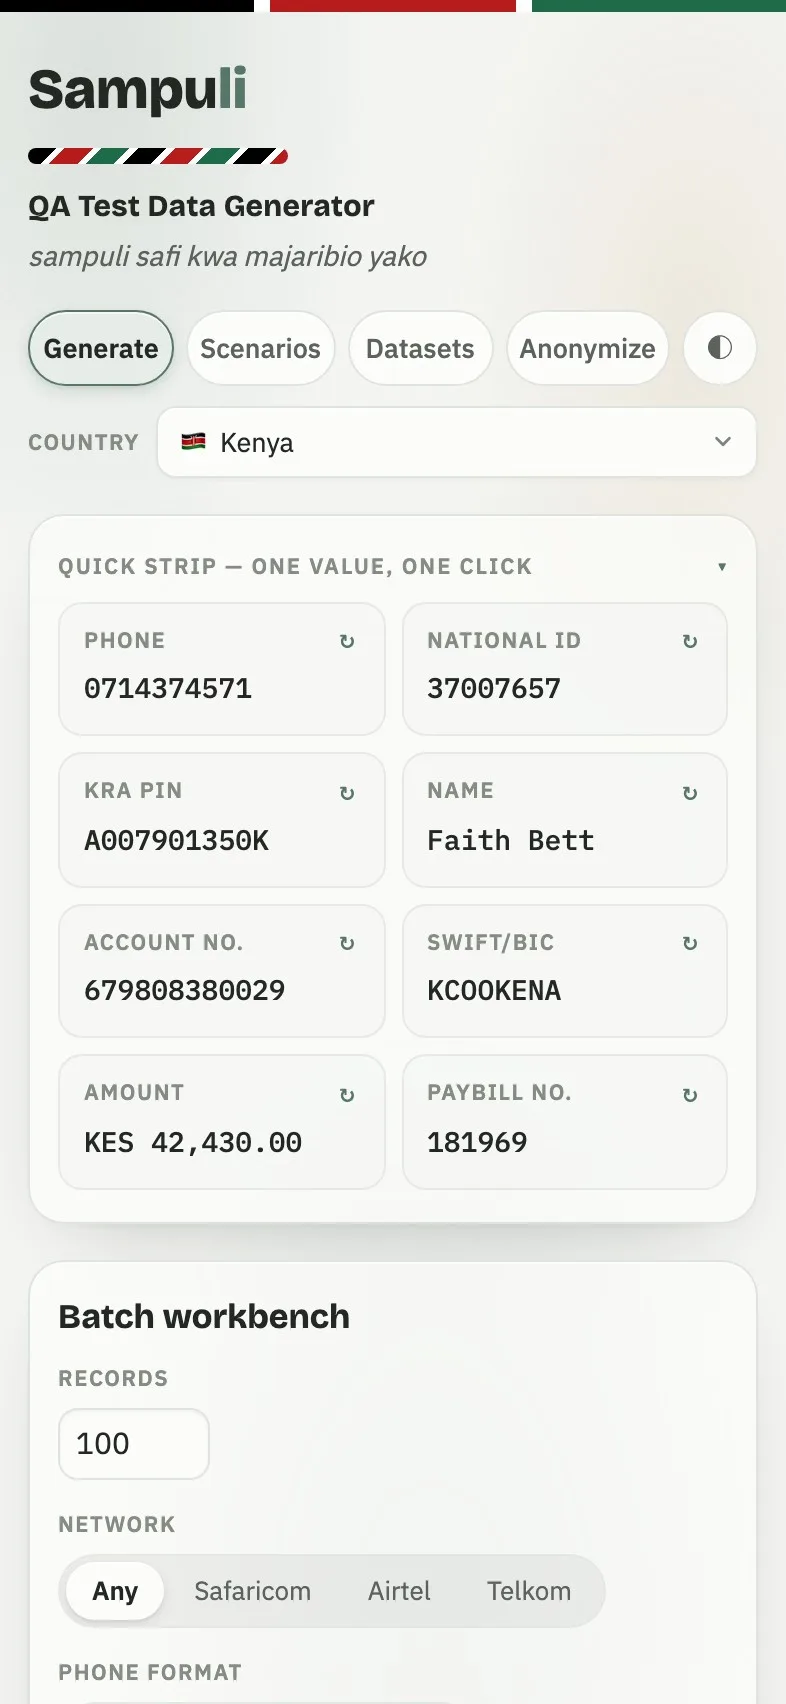
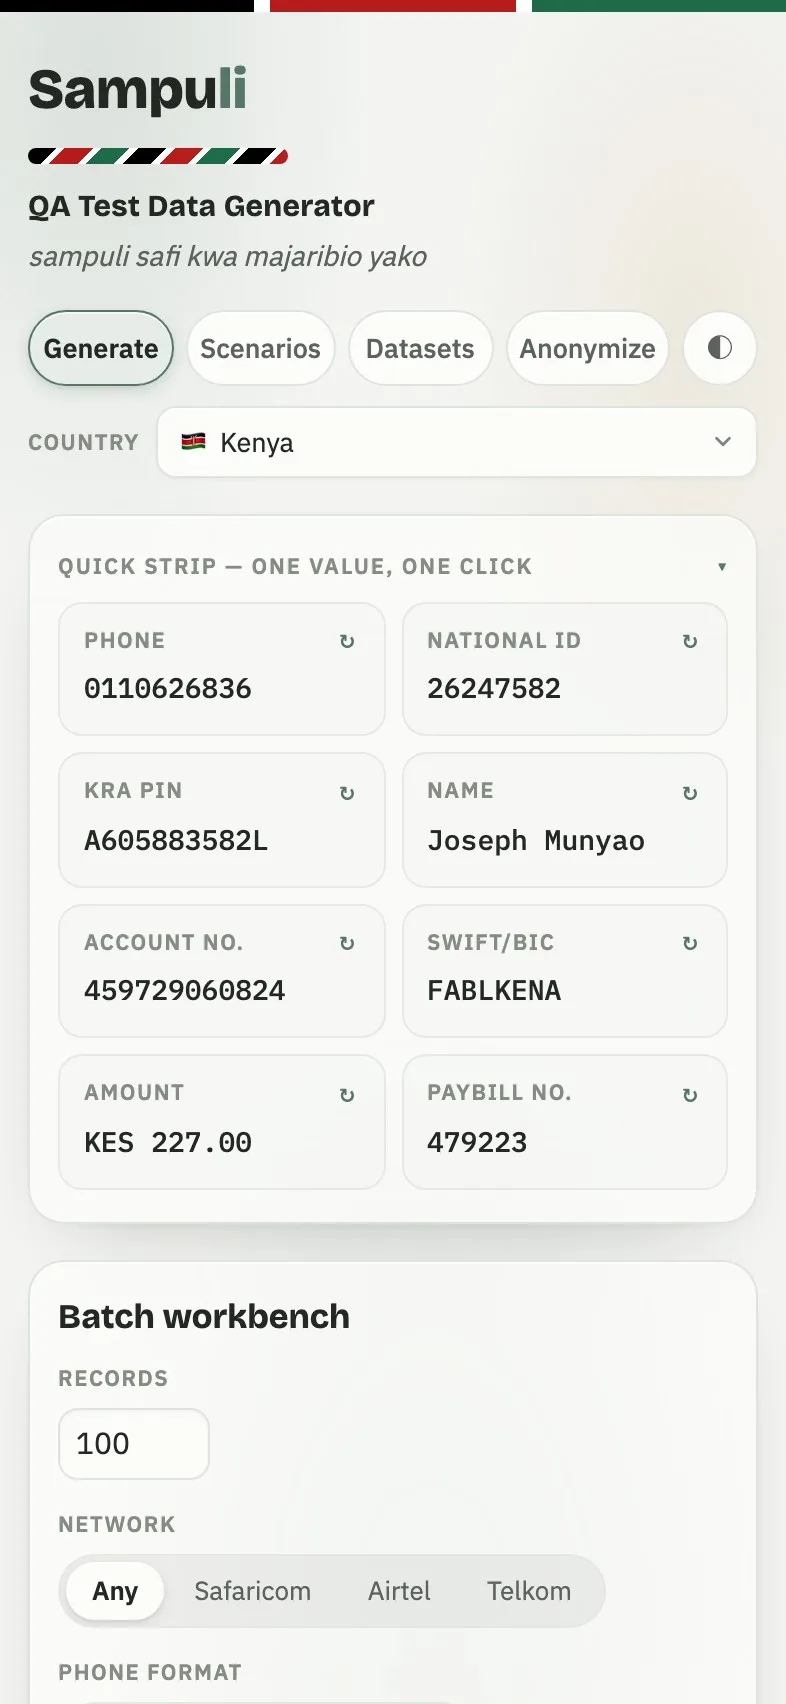
Sampuli chapter: 52 packs and the @sampuli/data npm package
Sampuli's status changed — @sampuli/data is live on npm (free, MIT, all
packs) and the pack count grew from 27 to 52 with the app at 411 tests
plus 29 in the package. The chapter now says so: eyebrow 'in the browser
and on npm', sub with 52 packs and the one-install angle, a terminal-chip
tile ('$ npm install @sampuli/data'), 52 and 440-test tiles, and journey
screenshots recaptured from the live site (its own footer now reads '52
country packs'). Copy follows the evergreen lesson from the package work:
'format-true synthetic', never 'valid' beside an ID name.

All numbers verified against main + the live site + the npm registry
before writing. Headless check: tiles render, npm chip styled, zero
console errors, no mobile overflow.

diff --git a/src/App.jsx b/src/App.jsx
@@ -50,9 +50,9 @@ const PRODUCTS = [
     deep: '#4F46E5',
     glow: 'rgba(99, 102, 241, 0.26)',
     screenBg: '#f3f5f3',
-    eyebrow: 'Test data for software teams',
+    eyebrow: 'Test data · in the browser and on npm',
     headline: ['Synthetic data that', 'passes every check.'],
-    sub: 'Format-valid test data for QA — from KRA PINs to Luhn-checked cards — that belongs to no real person.',
+    sub: 'Format-true synthetic test data — 52 country packs, in the browser or one npm install — belonging to no real person.',
     shots: { desktop: '/shots/sampuli-desktop', mobile: '/shots/sampuli-mobile.webp' },
   },
   {
@@ -353,9 +353,18 @@ function SampuliTiles() {
   return (
     <div className="bento">
       <article className="tile" data-reveal>
-        <p className="tile__big">27</p>
+        <p className="tile__big">52</p>
         <h3 className="tile__title">Country packs, Kenya first</h3>
-        <p className="tile__body">Africa’s fifteen largest economies plus Rwanda, and eleven major-currency markets.</p>
+        <p className="tile__body">Nairobi to Singapore — each market researched and checksum-verified before it ships, omitted rather than guessed.</p>
+      </article>
+      <article className="tile" data-reveal>
+        <div className="demo">
+          <div className="demo__npm">
+            <p><span className="demo__prompt">$</span> npm install @sampuli/data</p>
+          </div>
+        </div>
+        <h3 className="tile__title">One install, every pack</h3>
+        <p className="tile__body">The same engine as an npm package — all 52 countries in your tests and CI. Free, MIT, zero dependencies.</p>
       </article>
       <article className="tile" data-reveal>
         <div className="demo">
@@ -365,17 +374,12 @@ function SampuliTiles() {
           </div>
         </div>
         <h3 className="tile__title">Real formats, no real people</h3>
-        <p className="tile__body">Every value is generated in the browser and format-checked. Nothing is collected or stored.</p>
+        <p className="tile__body">Everything is entirely synthetic, generated on your machine and format-checked. Nothing is collected or stored.</p>
       </article>
       <article className="tile" data-reveal>
-        <p className="tile__big">4 formats</p>
-        <h3 className="tile__title">CSV · JSON · NDJSON · SQL</h3>
-        <p className="tile__body">Plus linked datasets — customers and transactions with real foreign keys.</p>
-      </article>
-      <article className="tile" data-reveal>
-        <p className="tile__big">220 tests</p>
+        <p className="tile__big">440 tests</p>
         <h3 className="tile__title">On every release</h3>
-        <p className="tile__body">Checksums, pack contracts and export shapes run green in CI before anything ships.</p>
+        <p className="tile__body">Checksums proven against known vectors, pack contracts and export shapes — green in CI across the app and the package.</p>
       </article>
     </div>
   )

diff --git a/src/styles.css b/src/styles.css
@@ -656,6 +656,20 @@ html.js [data-reveal].is-visible {
   border-radius: 999px;
   padding: 6px 14px;
 }
+.demo__npm {
+  padding: 14px 16px;
+  border-radius: 14px;
+  background: #101116;
+  border: 1px solid rgba(255, 255, 255, 0.08);
+  font-family: var(--mono);
+  font-size: 14px;
+  font-weight: 600;
+  color: #e6e6ef;
+  overflow-x: auto;
+  white-space: nowrap;
+}
+.demo__prompt { color: var(--deep); margin-right: 8px; }
+.chapter--light .demo__npm { box-shadow: 0 10px 26px -16px rgba(0, 0, 0, 0.5); }
 .demo__card {
   padding: 14px;
   border-radius: 14px;
